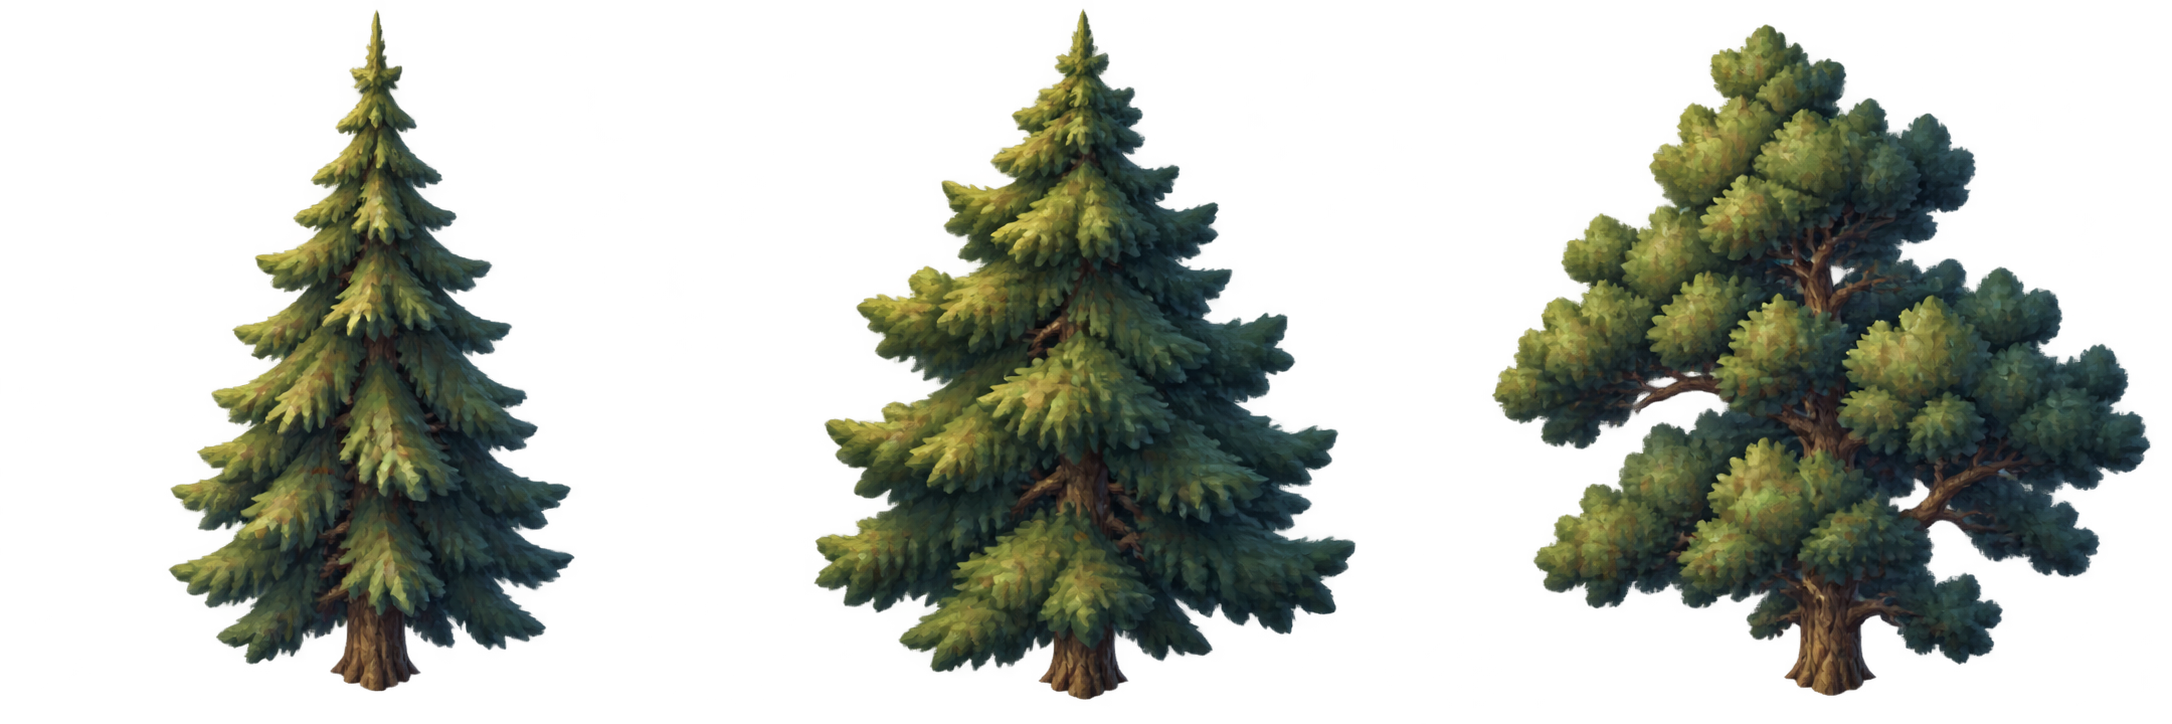
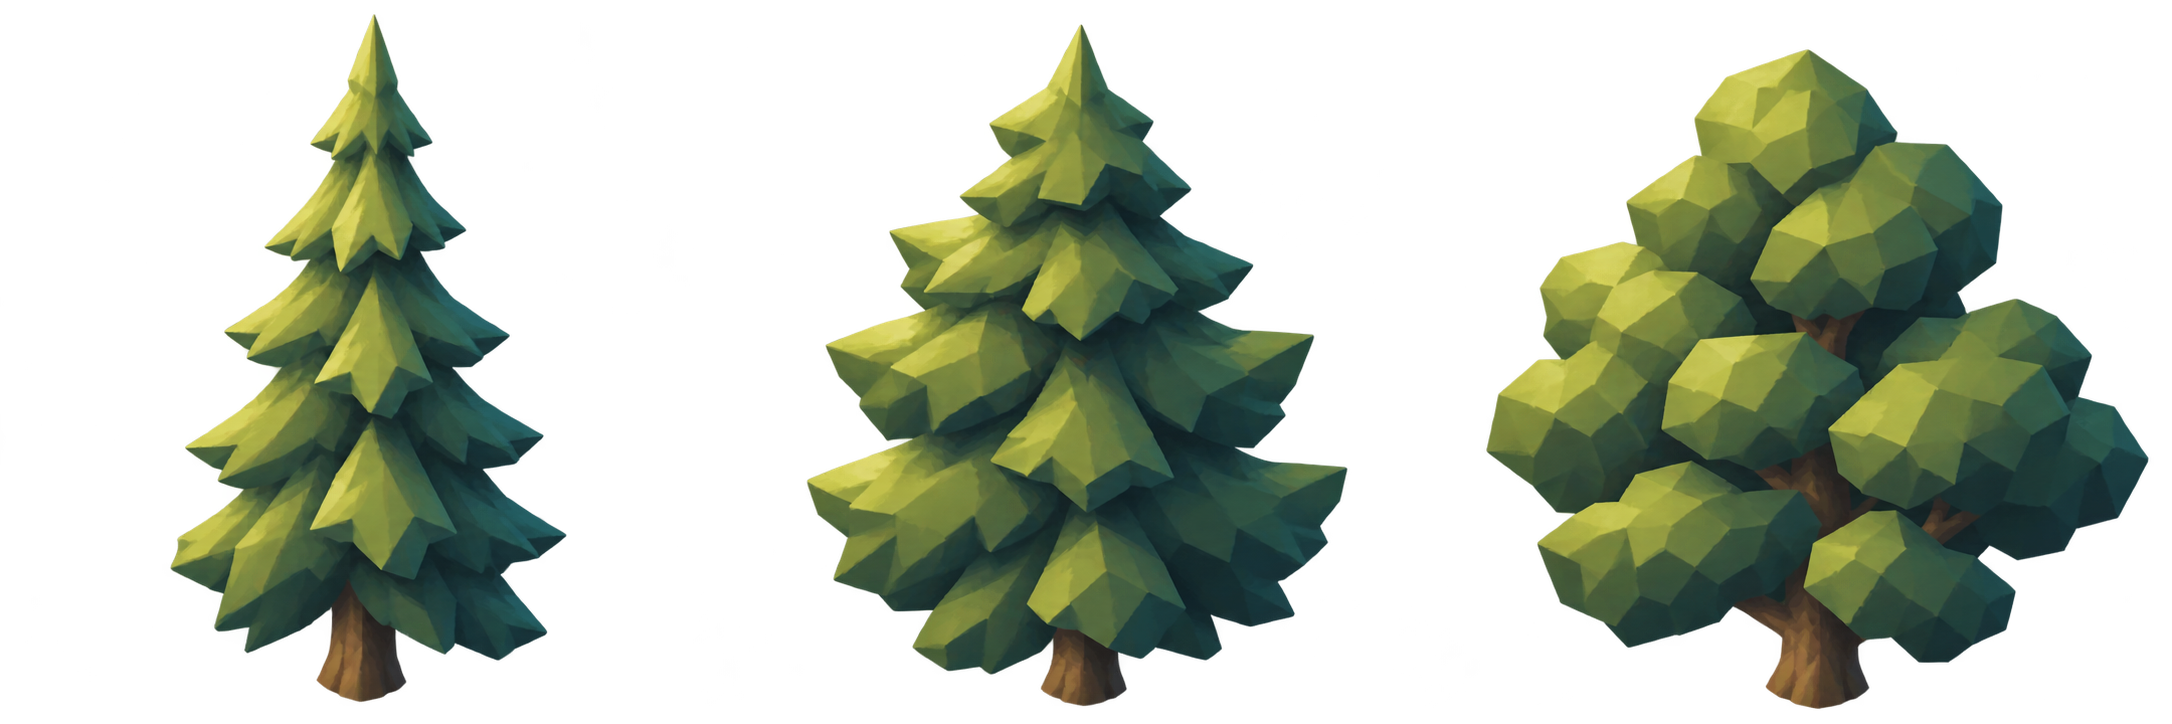
fix(world4x): preserve landscape LOD gates and use canonical faceted woodland

diff --git a/Unity/Assets/Eldoria/World4XCanon/RegionOneCanonicalLandscape.cs b/Unity/Assets/Eldoria/World4XCanon/RegionOneCanonicalLandscape.cs
@@ -27,7 +27,7 @@ namespace Eldoria.World4XCanon
         public const float LandscapeHalfDepth = 780f;
         public const float BreachOffsetX = 8f;
         public const float BreachOffsetZ = 61f;
-        public const float LocalThreshold = 72f;
+        public const float LocalThreshold = 41f;
         public const float RegionalThreshold = 152f;
         public const float LandscapePanoramaZoom = 244f;
         // Portrait requires a wider orthographic overview of the SAME XYZ
@@ -131,7 +131,7 @@ namespace Eldoria.World4XCanon
             // castle and prevented players from reading the surrounding 4X
             // territory. Widen both scales, retaining one real camera and
             // strong near -> regional -> panorama separation.
-            navigation.localZoom = 64f;
+            navigation.localZoom = 36f;
             navigation.regionalZoom = 113f;
             navigation.globalZoom = navigation.View.aspect < .80f
                 ? PortraitPanoramaZoom : LandscapePanoramaZoom;
@@ -232,8 +232,8 @@ namespace Eldoria.World4XCanon
             nearGroundMaterial.SetTexture("_DetailMap",detail);
             nearGroundMaterial.SetVector("_WorldMap",new Vector4(origin.x,origin.z,
                 1f/(LandscapeHalfWidth*2f),1f/(LandscapeHalfDepth*2f)));
-            nearGroundMaterial.SetFloat("_TileScale",1f/48f);
-            nearGroundMaterial.SetFloat("_DetailStrength",.55f);
+            nearGroundMaterial.SetFloat("_TileScale",1f/32f);
+            nearGroundMaterial.SetFloat("_DetailStrength",.32f);
             foreach(var renderer in originalGround)
             {
                 var previous=renderer.sharedMaterials;
@@ -1102,6 +1102,16 @@ namespace Eldoria.World4XCanon
                 // regional/near zoom and player pan/selection stay untouched.
                 if (wasPanoramic) navigation.SetZoomLevel(0, true);
             }
+            // Portrait needs context around real nodes; landscape retains
+            // the established three-scale separation and vegetation transition.
+            float wantedLocal=navigation.View.aspect<.80f ? 64f : 36f;
+            if(Mathf.Abs(navigation.localZoom-wantedLocal)>.5f)
+            {
+                bool wasLocal=navigation.View.orthographicSize<=navigation.localZoom+.5f;
+                navigation.localZoom=wantedLocal;
+                if(wasLocal) navigation.SetZoomLevel(2,true);
+            }
+            float localGroundThreshold=navigation.View.aspect<.80f ? 72f : LocalThreshold;
             float size = navigation.View.orthographicSize;
             bool distant = size >= RegionalThreshold;
             bool modeChanged = distant != farMode;
@@ -1110,7 +1120,7 @@ namespace Eldoria.World4XCanon
             // coupling both hid every batched canopy in the regional view.
             // Blend the SAME forest geography into view as local ground ends.
             float woodlandAlpha = Mathf.SmoothStep(0f, 1f,
-                Mathf.InverseLerp(navigation.localZoom, LocalThreshold + 14f, size));
+                Mathf.InverseLerp(navigation.localZoom, localGroundThreshold + 14f, size));
             bool showWoodland = woodlandAlpha > .001f;
             if (force || showWoodland != woodlandMode)
             {
@@ -1125,7 +1135,7 @@ namespace Eldoria.World4XCanon
                 tint.a = woodlandAlpha;
                 material.SetColor("_Color", tint);
             }
-            bool hideOldSquare = size >= LocalThreshold;
+            bool hideOldSquare = size >= localGroundThreshold;
             // Independent pigment replaces the duplicate old fracture only
             // where the painted ground is visible. Near/fallback retains it.
             bool paintedScar=paintedBreachRenderer && terrainTexture &&

diff --git a/Unity/Assets/Eldoria/Tests/PlayMode/RegionOneCanonIntegratedAcceptanceTests.cs b/Unity/Assets/Eldoria/Tests/PlayMode/RegionOneCanonIntegratedAcceptanceTests.cs
@@ -261,8 +261,7 @@ namespace Eldoria.Tests
                     x.sharedMaterial.shader.name=="Eldoria/World4X/WorldAlignedPaintedGround" &&
                     x.sharedMaterial.shader.isSupported),Is.True,
                     "Near ground must render the same geographic pigment through a supported shader.");
-                Assert.That(camera.orthographicSize*2f*(390f/844f),Is.GreaterThan(55f),
-                    "Near portrait framing must include context around real gameplay nodes.");
+
                 float nearPitch = (float)Member(navigation,"tilt");
                 Call(navigation, "SetZoomLevel", 0, true);
                 Call(adapter,"RefreshForCapture");
@@ -411,6 +410,9 @@ namespace Eldoria.Tests
                         Call(adapter, "RefreshForCapture");
                         yield return null;
                         Call(adapter, "RefreshForCapture");
+                        if(stage.Item2=="cercana" && format.Item3=="vertical")
+                            Assert.That(camera.orthographicSize*2f*camera.aspect,Is.GreaterThan(55f),
+                                "Near portrait must include context around actual gameplay nodes.");
                         if(stage.Item2=="panoramica" && format.Item3=="vertical")
                         {
                             // Core Region1 is 850 units across; the previous

diff --git a/docs/evidence/world4x-canon-20261022/NEAR_GROUND_AUTHORING.md b/docs/evidence/world4x-canon-20261022/NEAR_GROUND_AUTHORING.md
@@ -6,6 +6,12 @@ Use the same world-coordinate atlas on positively identified existing prairie re
 
 Detail source: built-in imagegen `exec-4fa54529-468a-458f-a922-e6e83df28714.png`, already authored before the P0 trial; a golden/olive painterly ground tile with no buildings/trees/POIs. Imported at 1024px with repeat wrapping. Native performance remains unprofiled.
 
-Local zoom 64, local-ground threshold 72. Regional/panoramic zooms remain 113 and 244/456. Near portrait width increases from about 33 to 59 world units. This is a deliberate framing change, so old/new near images are not claimed to have identical cameras. Regional/panoramic comparisons still match. Existing real wood-target reachability tests run in both mobile aspects; add near-material support and portrait-context assertions.
+Portrait local zoom 64 and local-ground threshold 72; landscape retains zoom 36 and threshold 41. Regional/panoramic zooms remain 113 and 244/456. Near portrait width increases from about 33 to 59 world units. This is a deliberate portrait framing change, so old/new near portrait images are not claimed to have identical cameras. Landscape near comparisons still match. Regional/panoramic comparisons still match. Existing real wood-target reachability tests run in both mobile aspects; add near-material support and portrait-context assertions.
 
 Prior step retained after native run 39854149671 (commit a3b73044b975c1f3514469feacba9b717a37e1cb, artifact 12458977713): seven tests passed, compact anchored scar visibly clears Valoria's approach. No artistic or physical-device approval is claimed.
+
+Initial native run 39855093812 correctly rejected a uniform zoom 64: landscape regional/near separation fell below the existing ratio gate and woodland disappeared at intermediate zoom55. Corrected with orientation-specific near framing; existing ratio and woodland assertions remain intact.
+
+The failed trial still produced real near-view images. The material aligned correctly and showed the same river geography; meadow contrast was too strong. Reduce detail strength from .55 to .32 and tile span from 48 to 32 world units before the next capture.
+
+Far woodland style correction: replace only the three-cell RGBA atlas with `exec-883937e1-d0d1-4d03-84cf-e29503729c7c.png` (2172×724). Built-in imagegen edited the existing three-tree atlas using the original canonical panorama only as style reference: simple faceted pine/fir/broadleaf, broad olive/teal planes, gold upper-left light, no individual needles, same cells/transparency/baselines. Same 688 trees, 3 meshes and 2,752 triangles; no additional targets or scene objects.
